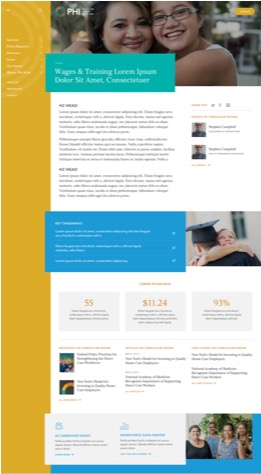
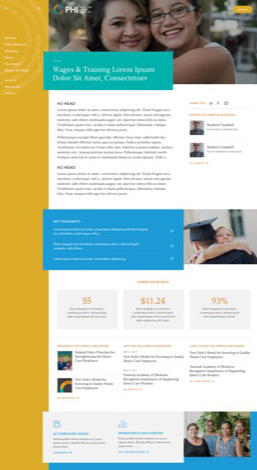
Add multi-image variation

diff --git a/src/scss/_project.scss b/src/scss/_project.scss
@@ -54,7 +54,13 @@
         position: absolute;
         z-index: -1;
     }
-    .project__image--single {
+    @include md {
+        width: 50%;
+    }
+}
+
+.project__image--single {
+    img {
         width: 100%;
         max-width: 100%;
         box-shadow: 0 0 60px rgba(0,0,0,0.5);
@@ -62,22 +68,69 @@
             box-shadow: none;
         }
     }
+}
+
+.project__image--multiple {
+    height: 450px;
     @include md {
-        width: 50%;
+        height: 700px;
+    }
+    img {
+        box-shadow: 0 0 60px rgba(0,0,0,0.5);
+        position: absolute;
+    }
+    img:nth-child(1),
+    img:nth-child(2) {
+        width: 195px;
+        @include md {
+            width: 260px;
+        }
+    }
+    img:nth-child(2) {
+        top: 60px;
+        left: 120px;
+        @include md {
+            top: 70px;
+            left: 158px;
+        }
+    }
+    img:nth-child(3),
+    img:nth-child(4) {
+        width: 70px;
+        top: 160px;
+        @include md {
+            width: 90px;
+            top: 215px;
+        }
+    }
+    img:nth-child(3) {
+        left: 25px;
+        @include md {
+            left: 35px;
+        }
+    }
+    img:nth-child(4) {
+        left: 110px;
+        @include md {
+            left: 145px;
+        }
     }
 }
 
 .project__image--alt {
-    position: absolute;
-    left: -390px;
-    margin-top: -80px;
-    display: block;
-    box-shadow: 0 0 60px rgba(0,0,0,0.5);
-    line-height: 0;
-    width: 520px;
-    img {
-        width: 100%;
-        max-width: 100%;
+    display: none;
+    @include md {
+        position: absolute;
+        left: -390px;
+        margin-top: -80px;
+        display: block;
+        box-shadow: 0 0 60px rgba(0,0,0,0.5);
+        line-height: 0;
+        width: 520px;
+        img {
+            width: 100%;
+            max-width: 100%;
+        }
     }
 }
 

diff --git a/src/scss/_orgs.scss b/src/scss/_orgs.scss
@@ -5,7 +5,7 @@
     @include md {
         padding-top: 160px;
         padding-bottom: 160px;
-        width: 95%;
+        width: calc(100% - 60px);
         float: right;
     }
 }
